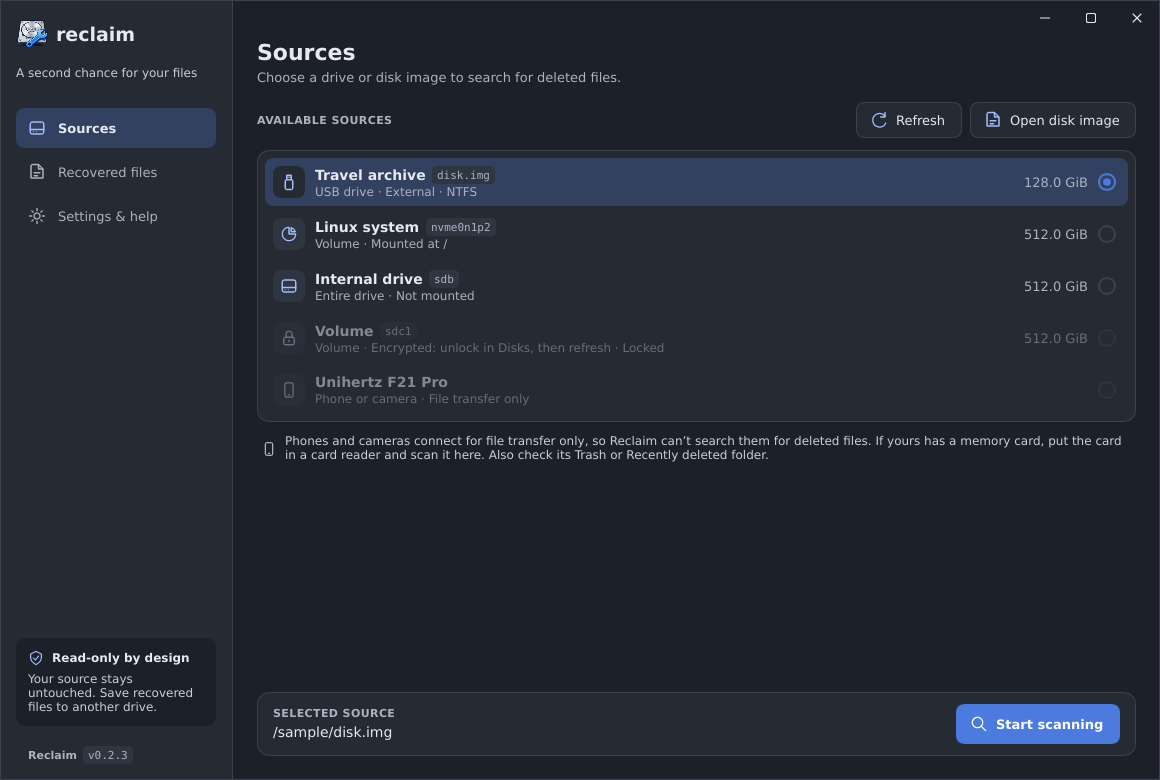
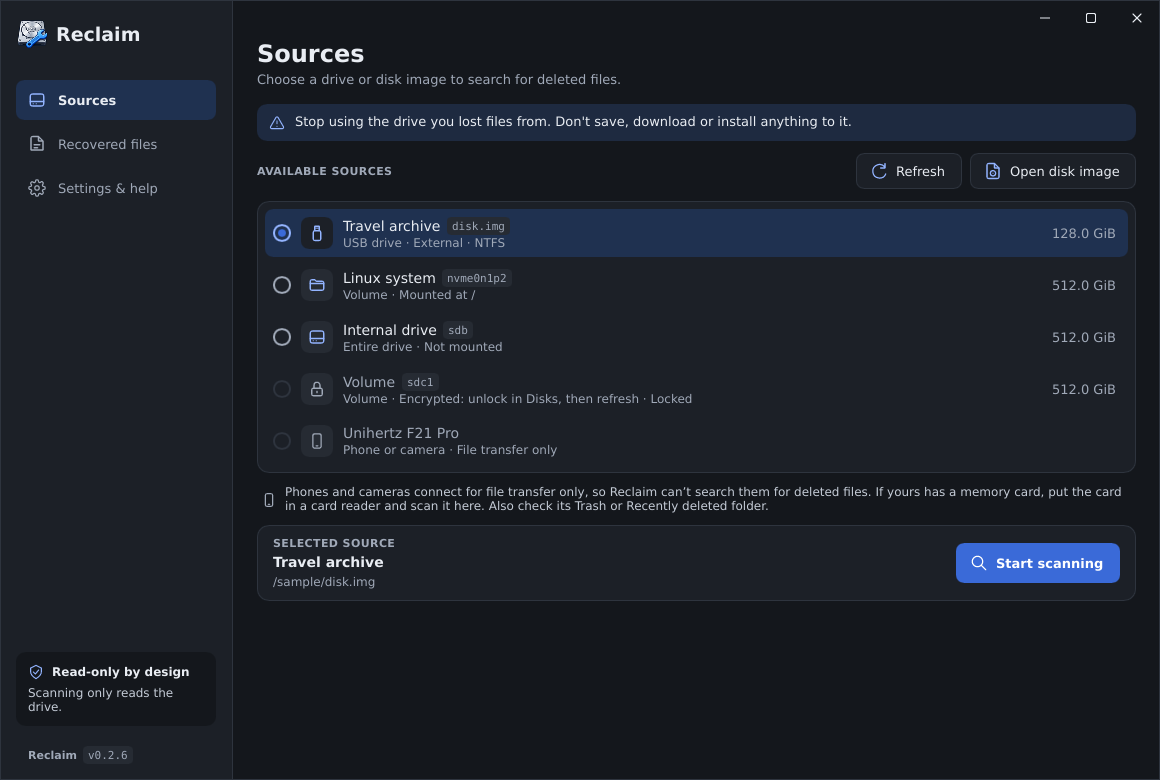
docs: refresh README screenshots and describe the latest UI changes
- New screenshots from the current interface (v0.2.6).
- "Scanning never changes your drive" wording, matching the app.
- Recovery steps mention the same-drive warning and Open folder.
- Note on keyboard use and the reduce-motion setting.
- Debian install example uses 0.2.6.

diff --git a/README.md b/README.md
@@ -2,7 +2,7 @@
   <img src="assets/icons/reclaim.png" alt="Reclaim app icon" width="88">
   <h1>Reclaim</h1>
   <p><strong>Get back deleted photos, documents and other files.</strong></p>
-  <p>Free, open source, and it never changes the drive it scans.<br>For Windows, macOS and Linux, in 7 languages.</p>
+  <p>Free, open source, and scanning never changes your drive.<br>For Windows, macOS and Linux, in 7 languages.</p>
 
 [**Download Reclaim**](#download) · [Lost files just now?](#lost-files-just-now-do-this-first) · [How to recover](#how-to-recover-your-files) · [Problems and fixes](#problems-and-fixes)
 
@@ -56,7 +56,7 @@ Pick the file for your computer from the **[latest release](https://github.com/s
 - **Ubuntu / Debian:** open a terminal in the folder you downloaded the file to and run the command below, using the version number in your file name. It needs Ubuntu 22.04, Debian 12 or newer.
 
   ```sh
-  sudo apt install ./reclaim_0.2.4_amd64.deb
+  sudo apt install ./reclaim_0.2.6_amd64.deb
   ```
 - **Portable ZIP:** unzip it into a folder (or onto a USB stick) and run the `reclaim` program inside. On Mac and Linux you may first need to run `chmod +x reclaim-*` in that folder.
 
@@ -65,9 +65,9 @@ Pick the file for your computer from the **[latest release](https://github.com/s
 1. **Choose the drive** where the files were. Connected drives appear on their own; click **Refresh** after plugging one in. If the drive is encrypted (BitLocker, FileVault, LUKS), unlock it first.
 2. **Click Start scanning.** Files appear while the scan runs. You can recover them right away, without waiting for the scan to finish, or stop the scan as soon as you see what you need.
 3. **Look through the results.** Search by name or type, filter by category (photos, documents…), and click a file to see its details and a preview for pictures.
-4. **Tick the files you want and click Recover selected.** Pick a folder on a **different drive**. Then open the recovered files to check they are complete.
+4. **Tick the files you want and click Recover selected.** Pick a folder on a **different drive**; Reclaim warns you if the folder might be on the drive you scanned. When it's done, click **Open folder** and check the recovered files are complete.
 
-![Reclaim showing found files with search, category filters and the file details panel](docs/screenshots/reclaim-results.png)
+![Reclaim showing found files with search, file-type icons and the file details panel](docs/screenshots/reclaim-results.png)
 
 *Screenshots use sample data. They show the interface, not a promise of what will be found.*
 
@@ -79,6 +79,7 @@ Pick the file for your computer from the **[latest release](https://github.com/s
 - **Large files:** most file types are limited to 64 MiB, so very large videos or archives may not come back.
 - **Results are not saved** when you close Reclaim. Recover what you need first.
 - **No deletion dates.** Reclaim can't tell when a file was deleted.
+- **Works with the keyboard.** In the results, press Tab to reach the list, use the arrow keys to move between files, Space to tick one and Enter to see its details. Reclaim also follows your system's reduce-motion setting.
 
 ### What it finds
 
@@ -99,7 +100,7 @@ Common video formats such as MP4 and MOV can't be found yet. Technical details a
 Yes. Reclaim is free and open source (MIT licence). There's no paid version and no account.
 
 **Can it change or damage my drive?**
-No. Reclaim only reads the drive it scans. It never writes to it.
+No. Scanning only reads the drive. Apart from its own small settings file and log, Reclaim writes only the files you choose to recover, into the folder you pick, and it warns you if that folder might be on the drive you scanned.
 
 **Can I get files back after emptying the Recycle Bin or Trash?**
 If they're still in the Recycle Bin or Trash, restore them from there; that's faster and keeps their names. After emptying it, files on hard drives, memory cards and USB sticks can often still be found. On a computer's internal SSD, they are usually gone (see below).
